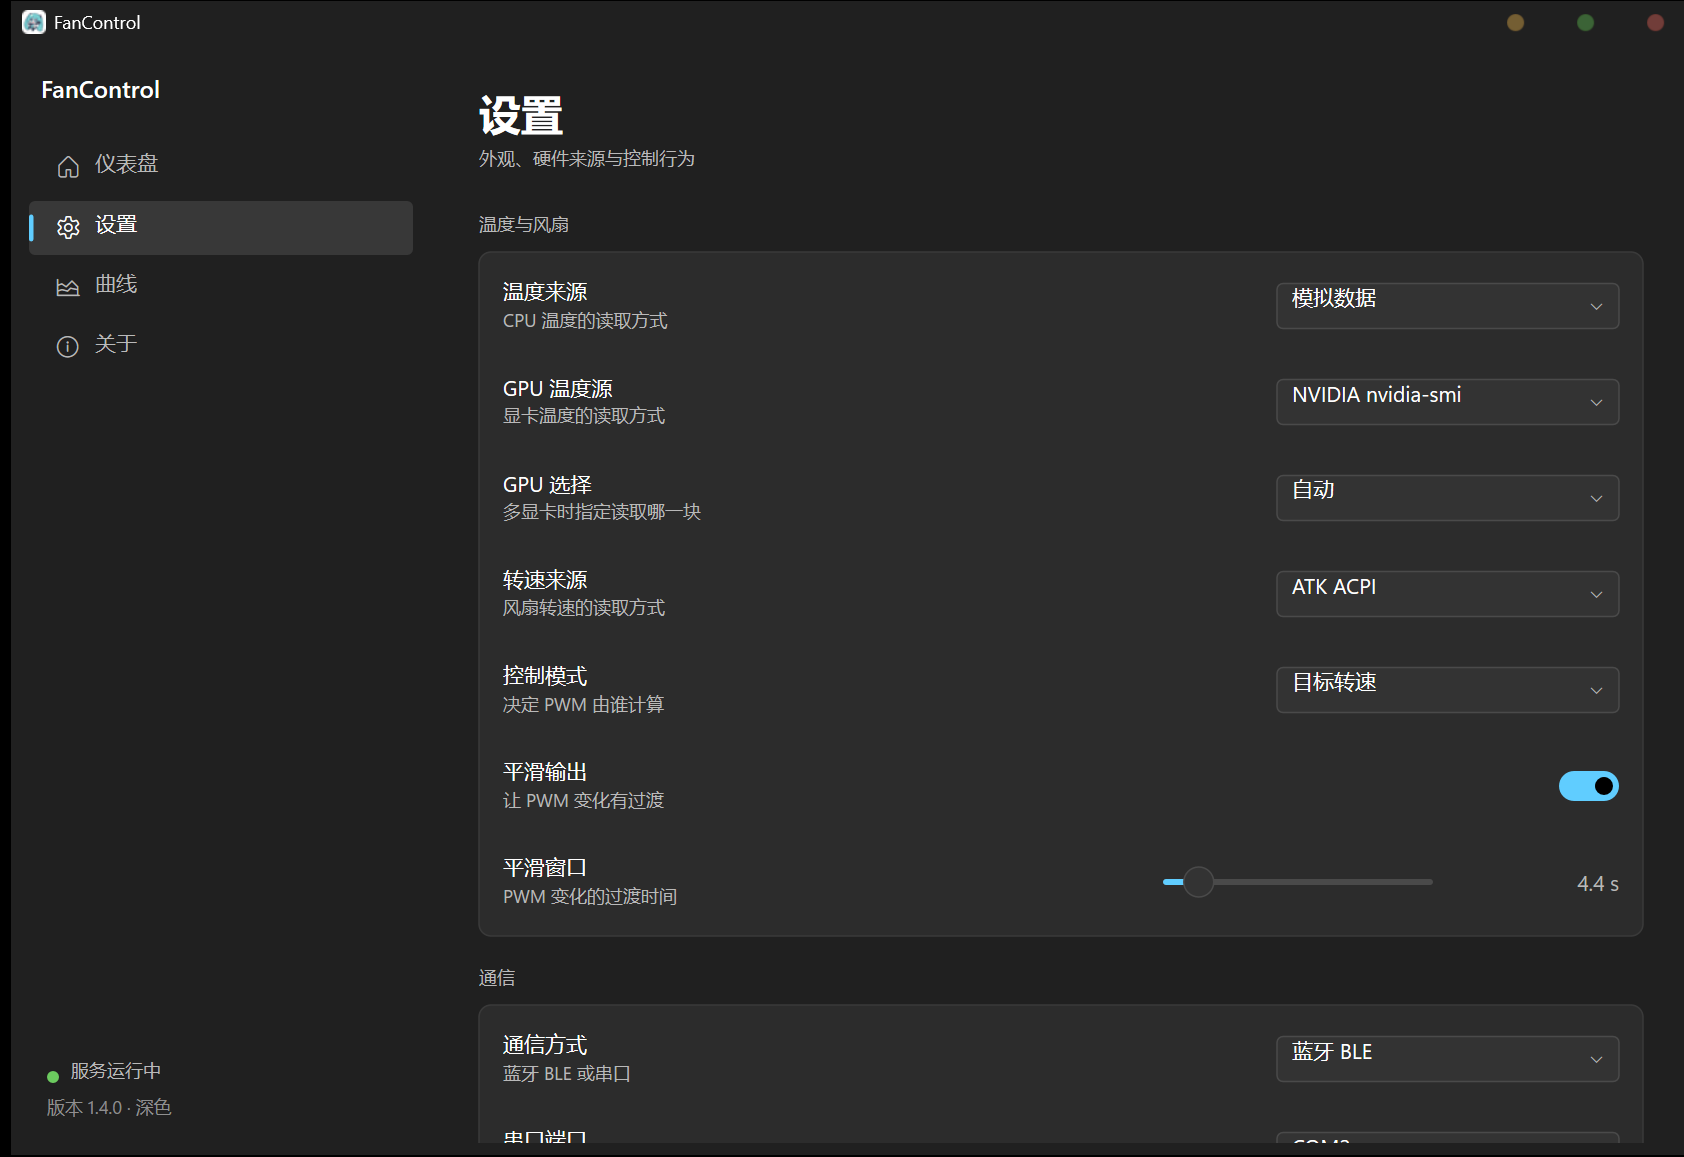
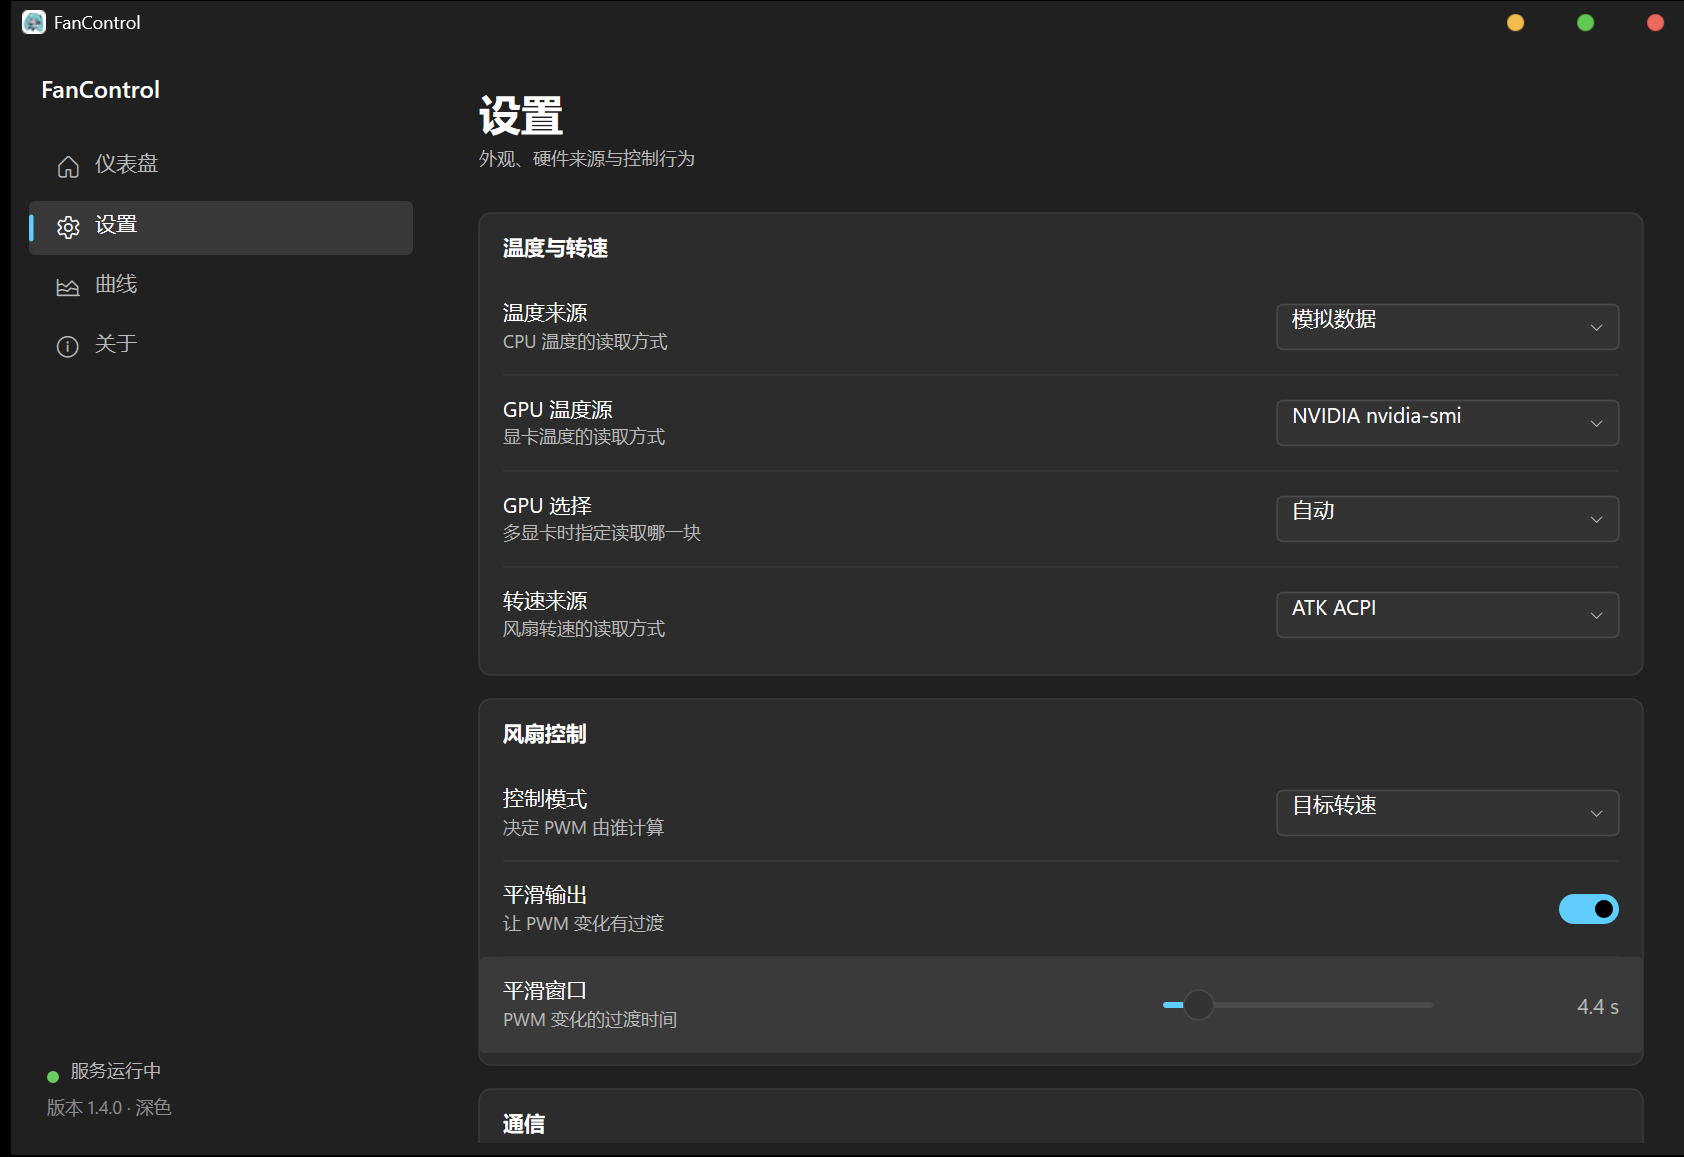
fix: 设置页按用途重排为五张卡，曲线页不再显示编造的默认曲线
界面（src/FanControl.UI.Cpp）：
- DrawSettings 改为五张带标题的卡：温度与转速（温度来源 / GPU 温度源 / GPU 选择 / 转速来源）、
  风扇控制（控制模式 / 手动 PWM / 平滑输出 / 平滑窗口）、通信（通信方式 + 串口或蓝牙二者其一 + 连接状态）、
  系统（采样间隔 / 开机自启 / 数据目录 / 日志记录）、外观与通知（主题 / 语言 / 温度单位 / 断连通知 / 温度异常通知）。
  卡内标题用 Card() 的 44 DIP 标题区，行之间画 1px 分隔线（线在最后统一画，否则会被行的悬停底色盖住），卡间距 16 DIP。
- 通信卡按 communicationType 只显示当前方式用得上的行：串口模式不显示蓝牙设备 / BLE 轮询 / 重连间隔 / 自动重连，
  BLE 模式不显示串口端口 / 波特率（以前两套同时列着，看不出哪套生效）。
- 删掉 App::Init 里编造的数据：6 点假温度曲线与 180 个正弦历史点。曲线等后台配置下发；
  趋势图在收到第一帧 state 时用真实值铺满（ApplyState 本来就有这个逻辑）。曲线为空时在图表中央给出提示。
- ApplyConfig 的曲线同步原来只在点数不同时才拷贝，配置点数恰好等于界面的假数据时会一直显示那份假曲线；
  改为拖拽之外一律按内容同步。
- i18n 补三张卡标题与空曲线提示，「通信」的英文从 Link 改为 Connection。

文档与截图：
- README 说明改为五张卡共 27 项、串口与蓝牙的行按当前通信方式显示；README.en.md 同步补一段。
- screenshots/zh1..4、en1..4 全部重拍。

验证：C++ DLL 600,064 B；dotnet build FanControl.slnx -c Release -m:1 0 警告 0 错误；dotnet test 125 通过；
界面实测串口 / 蓝牙两种模式的行切换正常，曲线页显示配置里的 4 点曲线（不再是 6 点假曲线），
仪表盘趋势首帧起于真实值；进程 ws 82-83 MB / private 46-49 MB / 40-43 线程；
artifacts 重打 selfcontained 208 文件 76.6 MB、framework 26 文件 6.3 MB、zip 34.3 / 2.8 MB、Setup Full 26.7 MB、Slim 4.2 MB。

diff --git a/src/FanControl.UI.Cpp/src/app.cpp b/src/FanControl.UI.Cpp/src/app.cpp
@@ -103,17 +103,8 @@ bool App::Init(HWND hwnd) {
                                    reinterpret_cast<IUnknown**>(&dw_)))) return false;
     CreateFormats();
 
-    curve_ = { {30, 20}, {50, 30}, {65, 48}, {75, 70}, {85, 90}, {95, 100} };
-    // 先铺满 3 分钟历史，避免首次打开时趋势图为空
-    for (int i = 0; i < 180; ++i) {
-        double tt = static_cast<double>(i);
-        cpuHist_.emplace_back(tt, 46.0 + 9.0 * std::sin(tt / 17.0) + 2.0 * std::sin(tt / 3.1));
-        gpuHist_.emplace_back(tt, 52.0 + 11.0 * std::sin(tt / 23.0 + 1.2));
-        pwmHist_.emplace_back(tt, 30.0 + 26.0 * std::sin(tt / 19.0 + 0.4));
-    }
-    snap_.cpu = cpuHist_.back().second;
-    snap_.gpu = gpuHist_.back().second;
-    snap_.pwm = static_cast<int>(pwmHist_.back().second);
+    // 界面不编造数据：曲线等后台配置下发，趋势图在收到第一帧 state 时用真实值铺满（见 ApplyState）。
+    // 这两处以前各塞了一份假数据（6 点曲线 + 180 个正弦历史点），首次打开会显示根本不存在的曲线。
     const bool ok = CreateTarget();
     // 单进程：界面 DLL 由 FanControl.exe 在进程内加载，后台从一开始就是「已连接」
     backendUp_ = true;
@@ -620,68 +611,65 @@ std::wstring SourceLabel(const std::wstring& value) {
 void App::DrawSettings(float x, float y, float w) {
     const float top = y;
     const float rowH = 64.0f;
+    const float headerH = 44.0f;  // 与 Card 的标题区一致：内容从标题下 44 DIP 开始
+    const float cardGap = 16.0f;
+    std::vector<float> separators;  // 行分隔线留到最后统一画，否则会被行的悬停底色盖住
 
-    auto groupTitle = [&](const wchar_t* title) {
-        Text(title, D2D1::RectF(x, y, x + w, y + 22), fSmall_, theme_.textSecondary);
-        y += 26;
-    };
-    auto cardTop = [&](int rows) {
-        Card(x, y, w, L"", rows * rowH + 8);
-        return y + 4;
+    float ry = y;
+    auto beginCard = [&](const wchar_t* title, int rows) {
+        const float height = headerH + rows * rowH + 8.0f;
+        Card(x, y, w, fc::T(title), height);
+        for (int i = 1; i < rows; ++i) separators.push_back(y + headerH + i * rowH);
+        ry = y + headerH;
+        y += height + cardGap;
     };
 
-    // 温度与风扇（对应 1.3.0 第一张卡）
-    groupTitle(fc::T(L"温度与风扇"));
-    {
-        const bool manual = config_.fanControlMode == L"Manual";
-        const int rows = 5 + (manual ? 1 : 0) + 1 + (config_.smoothingEnabled ? 1 : 0);
-        float ry = cardTop(rows);
-        RowCombo(x, ry, w, rowH, L"set:tempsrc", fc::T(L"温度来源"), fc::T(L"CPU 温度的读取方式"),
-                 SourceLabel(config_.temperatureSource));
+    // 1) 温度与转速：只放「数据从哪来」，控制行为放到下一张卡
+    beginCard(L"温度与转速", 4);
+    RowCombo(x, ry, w, rowH, L"set:tempsrc", fc::T(L"温度来源"), fc::T(L"CPU 温度的读取方式"),
+             SourceLabel(config_.temperatureSource));
+    ry += rowH;
+    RowCombo(x, ry, w, rowH, L"set:gpusrc", fc::T(L"GPU 温度源"), fc::T(L"显卡温度的读取方式"), GpuSourceLabel());
+    ry += rowH;
+    RowCombo(x, ry, w, rowH, L"set:gpusel", fc::T(L"GPU 选择"), fc::T(L"多显卡时指定读取哪一块"),
+             config_.gpuSelection == L"Auto" ? std::wstring(fc::T(L"自动")) : config_.gpuSelection);
+    ry += rowH;
+    RowCombo(x, ry, w, rowH, L"set:fansrc", fc::T(L"转速来源"), fc::T(L"风扇转速的读取方式"),
+             SourceLabel(config_.fanSpeedSource));
+
+    // 2) 风扇控制：模式与平滑放在一起，按模式/开关条件显示行
+    const bool manual = config_.fanControlMode == L"Manual";
+    beginCard(L"风扇控制", 2 + (manual ? 1 : 0) + (config_.smoothingEnabled ? 1 : 0));
+    RowCombo(x, ry, w, rowH, L"set:mode", fc::T(L"控制模式"), fc::T(L"决定 PWM 由谁计算"), ModeLabel(config_.fanControlMode));
+    ry += rowH;
+    if (manual) {
+        RowSlider(x, ry, w, rowH, L"set:manualpwm", fc::T(L"手动 PWM"), fc::T(L"手动模式下直接指定占空比"),
+                  config_.manualPwmPercent, 0, 100,
+                  Fmt(L"%d %%", static_cast<int>(std::lround(config_.manualPwmPercent))));
         ry += rowH;
-        RowCombo(x, ry, w, rowH, L"set:gpusrc", fc::T(L"GPU 温度源"), fc::T(L"显卡温度的读取方式"),
-                 GpuSourceLabel());
-        ry += rowH;
-        RowCombo(x, ry, w, rowH, L"set:gpusel", fc::T(L"GPU 选择"), fc::T(L"多显卡时指定读取哪一块"),
-                 config_.gpuSelection == L"Auto" ? std::wstring(fc::T(L"自动")) : config_.gpuSelection);
-        ry += rowH;
-        RowCombo(x, ry, w, rowH, L"set:fansrc", fc::T(L"转速来源"), fc::T(L"风扇转速的读取方式"),
-                 SourceLabel(config_.fanSpeedSource));
-        ry += rowH;
-        RowCombo(x, ry, w, rowH, L"set:mode", fc::T(L"控制模式"), fc::T(L"决定 PWM 由谁计算"),
-                 ModeLabel(config_.fanControlMode));
-        ry += rowH;
-        if (manual) {
-            RowSlider(x, ry, w, rowH, L"set:manualpwm", fc::T(L"手动 PWM"), fc::T(L"手动模式下直接指定占空比"),
-                      config_.manualPwmPercent, 0, 100,
-                      Fmt(L"%d %%", static_cast<int>(std::lround(config_.manualPwmPercent))));
-            ry += rowH;
-        }
-        RowToggle(x, ry, w, rowH, L"set:smoothenable", fc::T(L"平滑输出"), fc::T(L"让 PWM 变化有过渡"),
-                  config_.smoothingEnabled);
-        ry += rowH;
-        if (config_.smoothingEnabled) {
-            RowSlider(x, ry, w, rowH, L"set:smooth", fc::T(L"平滑窗口"), fc::T(L"PWM 变化的过渡时间"),
-                      config_.pwmSmoothingWindowSeconds, 0.5, 30.0,
-                      Fmt(L"%.1f s", config_.pwmSmoothingWindowSeconds));
-            ry += rowH;
-        }
-        y += rows * rowH + 8 + 20;
+    }
+    RowToggle(x, ry, w, rowH, L"set:smoothenable", fc::T(L"平滑输出"), fc::T(L"让 PWM 变化有过渡"),
+              config_.smoothingEnabled);
+    ry += rowH;
+    if (config_.smoothingEnabled) {
+        RowSlider(x, ry, w, rowH, L"set:smooth", fc::T(L"平滑窗口"), fc::T(L"PWM 变化的过渡时间"),
+                  config_.pwmSmoothingWindowSeconds, 0.5, 30.0,
+                  Fmt(L"%.1f s", config_.pwmSmoothingWindowSeconds));
     }
 
-    // 通信（对应 1.3.0 第二张卡）
-    groupTitle(fc::T(L"通信"));
-    {
-        const int rows = 8;
-        float ry = cardTop(rows);
-        RowCombo(x, ry, w, rowH, L"set:comm", fc::T(L"通信方式"), fc::T(L"蓝牙 BLE 或串口"),
-                 config_.communicationType == L"Com" ? fc::T(L"串口") : fc::T(L"蓝牙 BLE"));
-        ry += rowH;
+    // 3) 通信：串口/蓝牙只显示当前方式用得上的行，另一套收起来
+    const bool serial = config_.communicationType == L"Com";
+    beginCard(L"通信", 2 + (serial ? 2 : 4));
+    RowCombo(x, ry, w, rowH, L"set:comm", fc::T(L"通信方式"), fc::T(L"蓝牙 BLE 或串口"),
+             serial ? fc::T(L"串口") : fc::T(L"蓝牙 BLE"));
+    ry += rowH;
+    if (serial) {
         RowCombo(x, ry, w, rowH, L"set:comport", fc::T(L"串口端口"), fc::T(L"与风扇相连的 COM 口"), config_.comPort);
         ry += rowH;
         RowCombo(x, ry, w, rowH, L"set:baud", fc::T(L"波特率"), fc::T(L"串口通信速率"),
                  std::to_wstring(config_.comBaudRate));
         ry += rowH;
+    } else {
         RowCombo(x, ry, w, rowH, L"set:bledev", fc::T(L"蓝牙设备"), fc::T(L"已配对的 NUS 风扇"), DeviceLabel());
         ry += rowH;
         RowSlider(x, ry, w, rowH, L"set:blepoll", fc::T(L"BLE 轮询"), fc::T(L"发送温度命令的间隔"),
@@ -694,48 +682,41 @@ void App::DrawSettings(float x, float y, float w) {
         RowToggle(x, ry, w, rowH, L"set:autoreconnect", fc::T(L"自动重连"), fc::T(L"断开后自动尝试恢复"),
                   config_.autoReconnectBle);
         ry += rowH;
-        RowStatus(x, ry, w, rowH, L"set:connstate", fc::T(L"连接状态"), fc::T(L"设备链路"), ConnectionLabel());
-        y += rows * rowH + 8 + 20;
     }
+    RowStatus(x, ry, w, rowH, L"set:connstate", fc::T(L"连接状态"), fc::T(L"设备链路"), ConnectionLabel());
 
-    // 系统（对应 1.3.0 第三张卡）
-    groupTitle(fc::T(L"系统"));
-    {
-        const int rows = 9;
-        float ry = cardTop(rows);
-        RowSlider(x, ry, w, rowH, L"set:poll", fc::T(L"采样间隔"), fc::T(L"读取传感器的周期"),
-                  config_.pollIntervalMilliseconds / 1000.0, 0.1, 5.0,
-                  Fmt(L"%.1f s", config_.pollIntervalMilliseconds / 1000.0));
-        ry += rowH;
-        RowToggle(x, ry, w, rowH, L"set:autostart", fc::T(L"开机自启"), fc::T(L"登录后自动启动 FanControl"), autostart_);
-        ry += rowH;
-        RowCombo(x, ry, w, rowH, L"set:datadir", fc::T(L"数据目录"), fc::T(L"配置与日志的存放位置（重启后生效）"),
-                 DataDirLabel());
-        ry += rowH;
-        RowToggle(x, ry, w, rowH, L"set:logenabled", fc::T(L"日志记录"), fc::T(L"把运行日志写入数据目录"), logEnabled_);
-        ry += rowH;
-        RowCombo(x, ry, w, rowH, L"set:theme", fc::T(L"应用主题"), fc::T(L"跟随系统 / 深色 / 浅色"), ThemeLabel());
-        ry += rowH;
-        RowCombo(x, ry, w, rowH, L"set:lang", fc::T(L"语言"), fc::T(L"界面语言"), LangLabel());
-        ry += rowH;
-        RowCombo(x, ry, w, rowH, L"set:unit", fc::T(L"温度单位"), fc::T(L"仪表盘与曲线显示单位"), UnitLabel());
-        ry += rowH;
-        RowToggle(x, ry, w, rowH, L"set:notify", fc::T(L"断连通知"), fc::T(L"蓝牙断开时弹出系统通知"),
-                  config_.notifyOnBleDisconnect);
-        ry += rowH;
-        RowToggle(x, ry, w, rowH, L"set:notifytemp", fc::T(L"温度异常通知"), fc::T(L"温度数据源读取失败时提示"),
-                  config_.notifyOnTemperatureError);
-        y += rows * rowH + 8 + 20;
-    }
+    // 4) 系统：采样与启动行为
+    beginCard(L"系统", 4);
+    RowSlider(x, ry, w, rowH, L"set:poll", fc::T(L"采样间隔"), fc::T(L"读取传感器的周期"),
+              config_.pollIntervalMilliseconds / 1000.0, 0.1, 5.0,
+              Fmt(L"%.1f s", config_.pollIntervalMilliseconds / 1000.0));
+    ry += rowH;
+    RowToggle(x, ry, w, rowH, L"set:autostart", fc::T(L"开机自启"), fc::T(L"登录后自动启动 FanControl"), autostart_);
+    ry += rowH;
+    RowCombo(x, ry, w, rowH, L"set:datadir", fc::T(L"数据目录"), fc::T(L"配置与日志的存放位置（重启后生效）"),
+             DataDirLabel());
+    ry += rowH;
+    RowToggle(x, ry, w, rowH, L"set:logenabled", fc::T(L"日志记录"), fc::T(L"把运行日志写入数据目录"), logEnabled_);
+
+    // 5) 外观与通知：只影响界面显示与提示
+    beginCard(L"外观与通知", 5);
+    RowCombo(x, ry, w, rowH, L"set:theme", fc::T(L"应用主题"), fc::T(L"跟随系统 / 深色 / 浅色"), ThemeLabel());
+    ry += rowH;
+    RowCombo(x, ry, w, rowH, L"set:lang", fc::T(L"语言"), fc::T(L"界面语言"), LangLabel());
+    ry += rowH;
+    RowCombo(x, ry, w, rowH, L"set:unit", fc::T(L"温度单位"), fc::T(L"仪表盘与曲线显示单位"), UnitLabel());
+    ry += rowH;
+    RowToggle(x, ry, w, rowH, L"set:notify", fc::T(L"断连通知"), fc::T(L"蓝牙断开时弹出系统通知"),
+              config_.notifyOnBleDisconnect);
+    ry += rowH;
+    RowToggle(x, ry, w, rowH, L"set:notifytemp", fc::T(L"温度异常通知"), fc::T(L"温度数据源读取失败时提示"),
+              config_.notifyOnTemperatureError);
+
+    for (float sy : separators) Line(x + 16.0f, sy, x + w - 16.0f, sy, theme_.gridLine);
 
     // 重新加载：把界面上的值从后台再取一遍（1.3.0 的「重新加载」按钮）
     Chip(x, y, 120, 34, fc::T(L"重新加载"), false, L"settings:reload");
     y += 34 + 18;
-
-
-
-
-
     contentHeight_ = y - top + 24.0f;
 }
 
@@ -785,6 +766,12 @@ void App::DrawCurve(float x, float y, float w) {
         const bool selected = static_cast<int>(i) == curveSelected_;
         FillRound(D2D1::RectF(px - 6, py - 6, px + 6, py + 6), 6.0f, selected ? theme_.accent : theme_.cardBg);
         StrokeRound(D2D1::RectF(px - 6, py - 6, px + 6, py + 6), 6.0f, theme_.accent, 2.0f);
+    }
+    if (points.empty()) {
+        // 没有曲线点时给出提示，而不是留一张空白图表让人以为坏了
+        const float mid = (plot.top + plot.bottom) / 2;
+        TextCentered(fc::T(L"曲线为空：点「添加点」，或直接在图里点一下"),
+                     D2D1::RectF(plot.left, mid - 12, plot.right, mid + 12), fBody_, theme_.textTertiary);
     }
 
     // 1.3.0 曲线页的四个按钮：添加点 / 删除点 / 重置 / 保存
@@ -1373,7 +1360,6 @@ void App::OnIpcMessage(void* payload) {
 }
 
 void App::ApplyConfig(const fc::Config& config) {
-    const bool first = !hasConfig_;
     config_ = config;
     hasConfig_ = true;
     // 语言跟着后台配置走：后台是唯一写盘方，换语言后重启界面仍然是同一种
@@ -1385,15 +1371,12 @@ void App::ApplyConfig(const fc::Config& config) {
     smoothMs_ = std::clamp(static_cast<int>(config.pwmSmoothingWindowSeconds * 1000.0), 100, 3000);
     RestoreSliderValue();
     if (dragIndex_ < 0) {
-        // 拖拽期间不覆盖用户正在编辑的曲线
-        if (first || curve_.size() != config.curve.size()) {
-            curve_.clear();
-            for (const auto& point : config.curve) curve_.push_back(Point2{ point.x, point.y });
-        }
-        if (first || rpmCurve_.size() != config.rpmCurve.size()) {
-            rpmCurve_.clear();
-            for (const auto& point : config.rpmCurve) rpmCurve_.push_back(Point2{ point.x, point.y });
-        }
+        // 拖拽期间不覆盖用户正在编辑的曲线；其余时候按内容同步。
+        // 以前只在点数不同时才拷贝，配置里点数恰好等于界面的假数据时，界面会一直显示那份假曲线。
+        curve_.clear();
+        for (const auto& point : config.curve) curve_.push_back(Point2{ point.x, point.y });
+        rpmCurve_.clear();
+        for (const auto& point : config.rpmCurve) rpmCurve_.push_back(Point2{ point.x, point.y });
     }
     if (!hasInitial_) {
         const bool wantDark = config.theme == L"Dark" ? true

diff --git a/src/FanControl.UI.Cpp/src/i18n.cpp b/src/FanControl.UI.Cpp/src/i18n.cpp
@@ -30,7 +30,7 @@ const Entry kEntries[] = {
     { L"转速见趋势", L"RPM in trend" },
     { L"最近 4 分钟", L"Last 4 minutes" },
     { L"连接状态", L"Connection" },
-    { L"通信", L"Link" },
+    { L"通信", L"Connection" },
     { L"设备", L"Device" },
     { L"最近错误", L"Last error" },
     { L"已连接", L"Connected" },
@@ -122,7 +122,10 @@ const Entry kEntries[] = {
     { L"选择 GPU", L"Select a GPU" },
     { L"扫描中…", L"Scanning…" },
     { L"没有可选项", L"Nothing to choose" },
-    { L"温度与风扇", L"Temperature & fans" },
+    { L"温度与转速", L"Temperature & RPM" },
+    { L"风扇控制", L"Fan control" },
+    { L"外观与通知", L"Appearance & notifications" },
+    { L"曲线为空：点「添加点」，或直接在图里点一下", L"Curve is empty: use Add point, or click inside the chart" },
     { L"CPU 温度的读取方式", L"How the CPU temperature is read" },
     { L"显卡温度的读取方式", L"How the GPU temperature is read" },
     { L"风扇转速的读取方式", L"How the fan speed is read" },

diff --git a/README.md b/README.md
@@ -28,7 +28,7 @@
 
 > 界面支持简体中文与英文，可在 **设置 → 语言** 切换（英文界面见 [README.en.md](README.en.md)）。选择写入 `AppConfig.Language`，重启后保持。
 
-> 设置页与 1.3.0 一一对应：温度/风扇、通信、系统三张卡共 25 项，全部选择项都是行内下拉框（不再弹模态窗）。配置文件路径与字段沿用 1.3.0（`%AppData%\FanControl\Config\` 或安装目录 `Userdata\Config\`），安装包 AppId 也未变，可直接覆盖升级。
+> 设置页按用途分成五张卡：温度与转速、风扇控制、通信、系统、外观与通知，共 27 项，全部选择项都是行内下拉框（不再弹模态窗）；串口与蓝牙的行按当前通信方式只显示其中一套。配置文件路径与字段沿用 1.3.0（`%AppData%\FanControl\Config\` 或安装目录 `Userdata\Config\`），安装包 AppId 也未变，可直接覆盖升级。
 
 ## 简介
 

diff --git a/README.en.md b/README.en.md
@@ -27,6 +27,8 @@
 | ![Settings](screenshots/en3.png) | ![About](screenshots/en4.png) |
 
 > The UI ships in Simplified Chinese and English. Switch it in **Settings → Language**; the choice is stored in `AppConfig.Language` and applied on the next start too. The screenshots above are the English UI.
+>
+> Settings are grouped into five cards — Temperature & RPM, Fan control, Connection, System, Appearance & notifications. Serial and Bluetooth rows only show the set that matches the current link type.
 
 ## Overview
 
